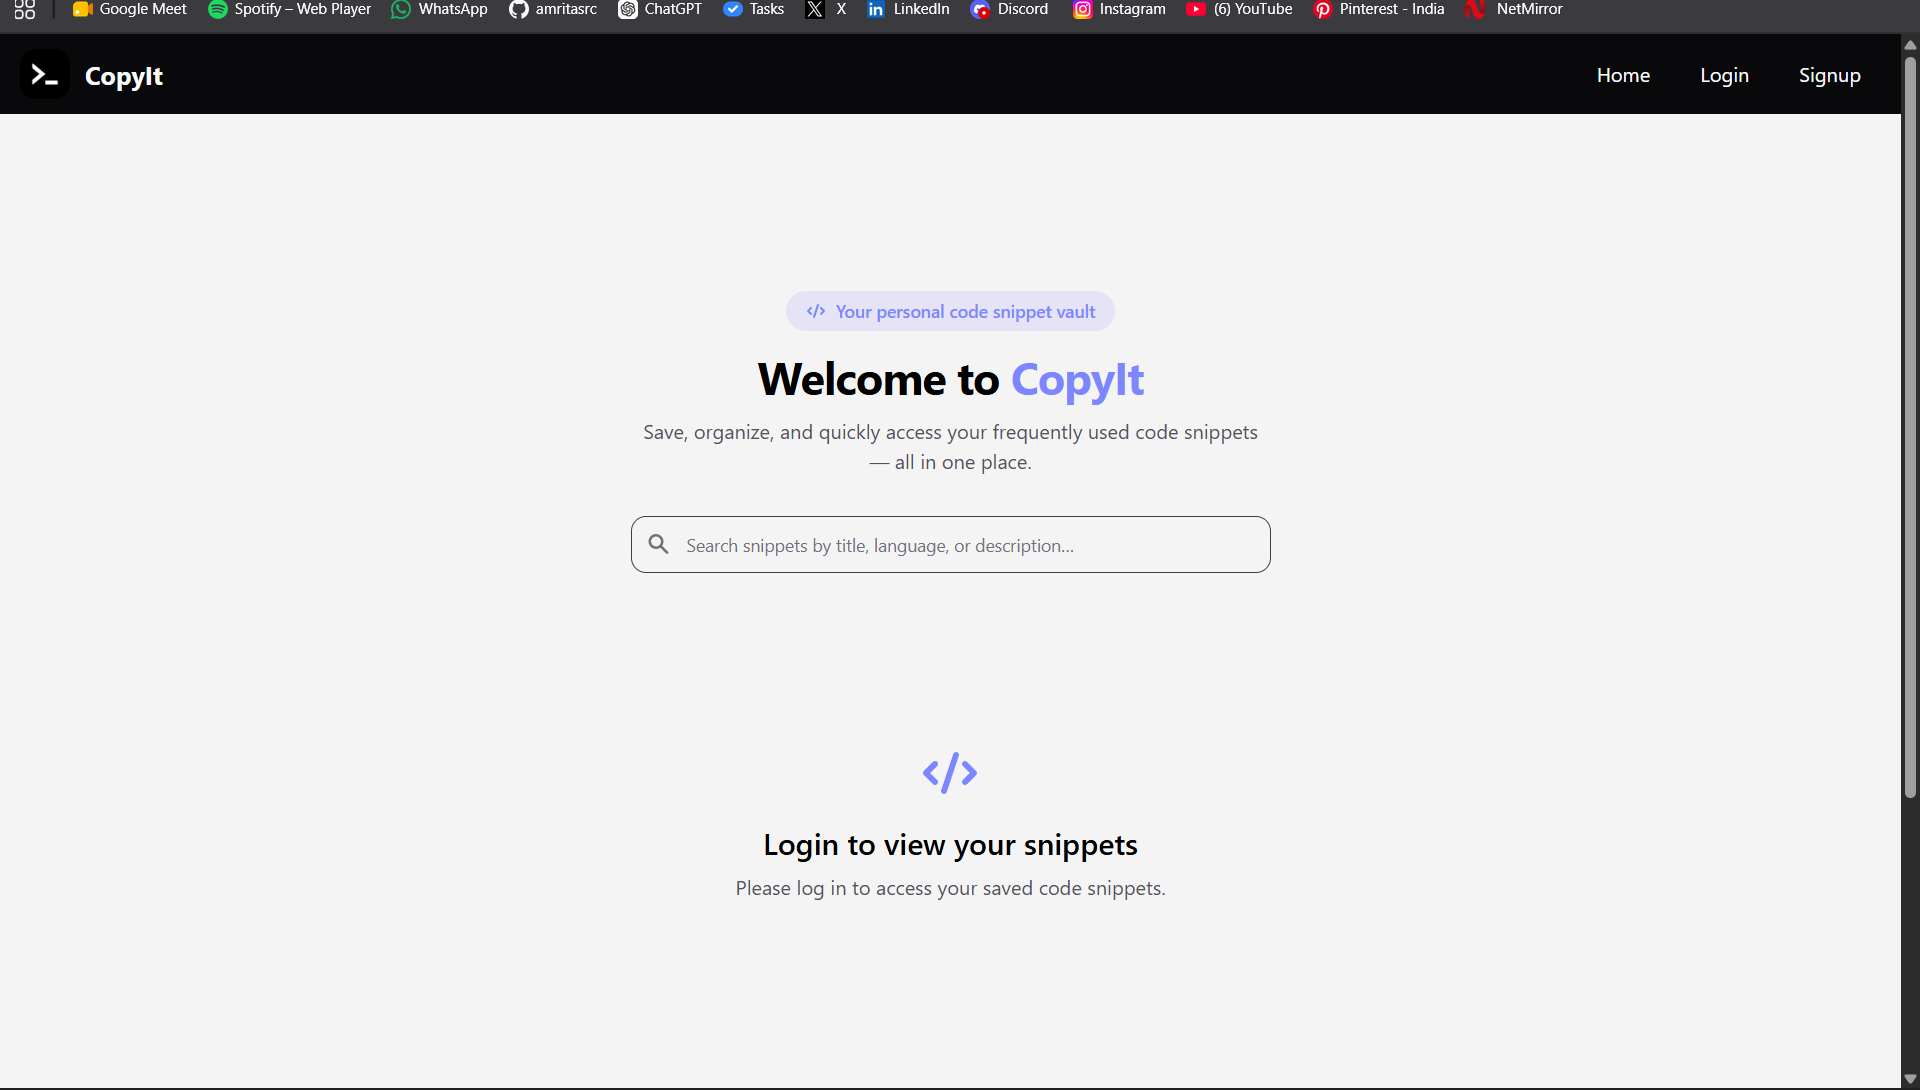
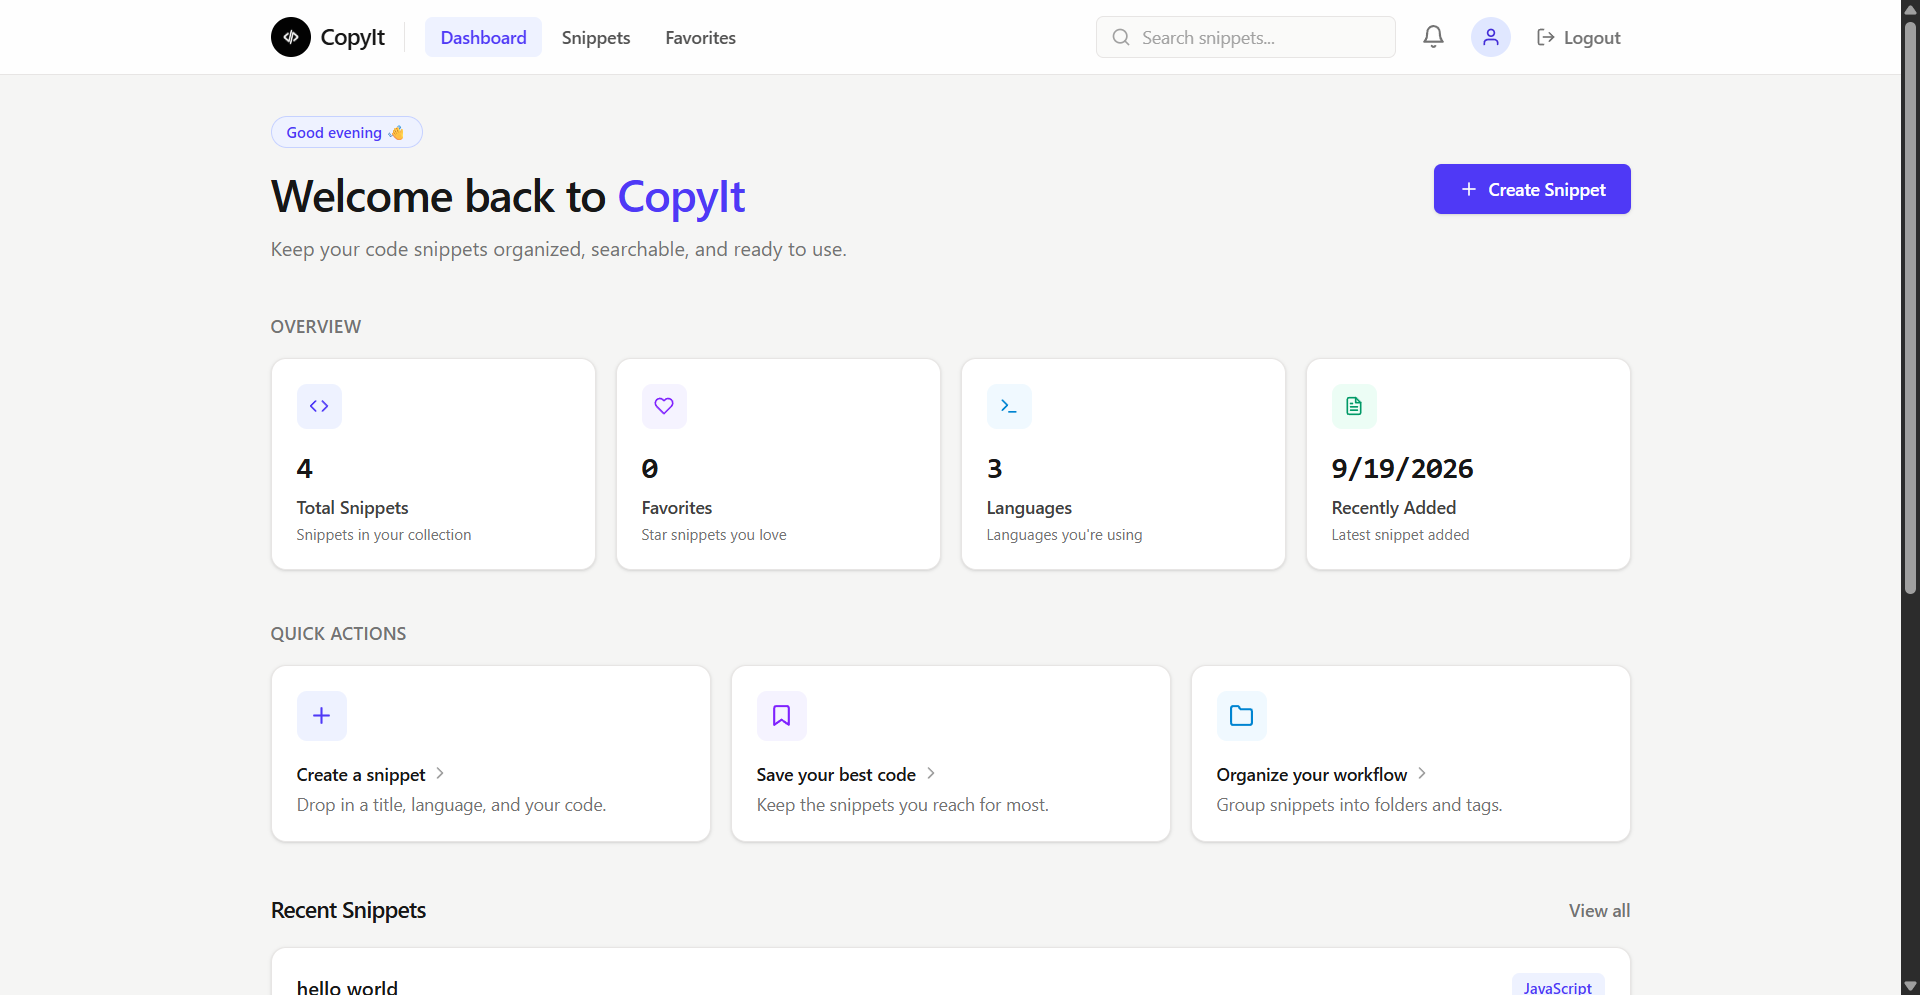
feat: add new project

diff --git a/src/Comps/Project.jsx b/src/Comps/Project.jsx
@@ -6,25 +6,39 @@ import Nav from "./Nav";
 const projects = [
   {
     projectName: "CopyIt",
-    imageSrc: "/copyIt.png",
+    imageSrc: "/copyit.png",
     githubLink: "https://github.com/amritasrc/copyIt",
     link: "https://copy-it-gold.vercel.app/",
     projectDescrip:
-      "A full-stack code snippet vault built with React, Tailwind CSS, Supabase, and Monaco Editor for creating, organizing, searching, editing, and managing reusable code snippets.",
-    technologies: ["React", "Tailwind CSS", "Supabase", "Monaco Editor", "React Router"]
+      "A full-stack code snippet management platform built with React, Tailwind CSS, Node.js, Express, and MongoDB. Create, organize, search, edit, delete, and share reusable code snippets with secure JWT authentication and a dynamic dashboard.",
+
+    technologies: [
+      "React",
+      "Tailwind CSS",
+      "Node.js",
+      "Express.js",
+      "MongoDB",
+      "Mongoose",
+      "JWT",
+      "React Router",
+    ],
   },
   {
-    projectName: "Rhythmify",
-    imageSrc: "/rhythmify.png",
-    githubLink: "https://github.com/amritasrc/Rhythmify",
-    link: "https://rhythmify-jade.vercel.app/",
+    projectName: "URL Shortener",
+    imageSrc: "/shortener.png",
+    githubLink: "https://github.com/amritasrc/url-shortener",
     projectDescrip:
-      "A modern music player built with React, JavaScript, Tailwind CSS, and the YouTube Data API. Search songs, play music instantly, control playback with keyboard shortcuts, and enjoy a clean Spotify-inspired experience.",
+      "A full-stack URL shortener that lets users create short, shareable links and track their visit history. Built with React and Node.js, with a REST API, MongoDB storage, and a clean, responsive interface.",
+
     technologies: [
       "React",
       "JavaScript",
       "Tailwind CSS",
-      "YouTube API",
+      "Node.js",
+      "Express.js",
+      "MongoDB",
+      "Mongoose",
+      "REST API",
     ],
   },
   {
